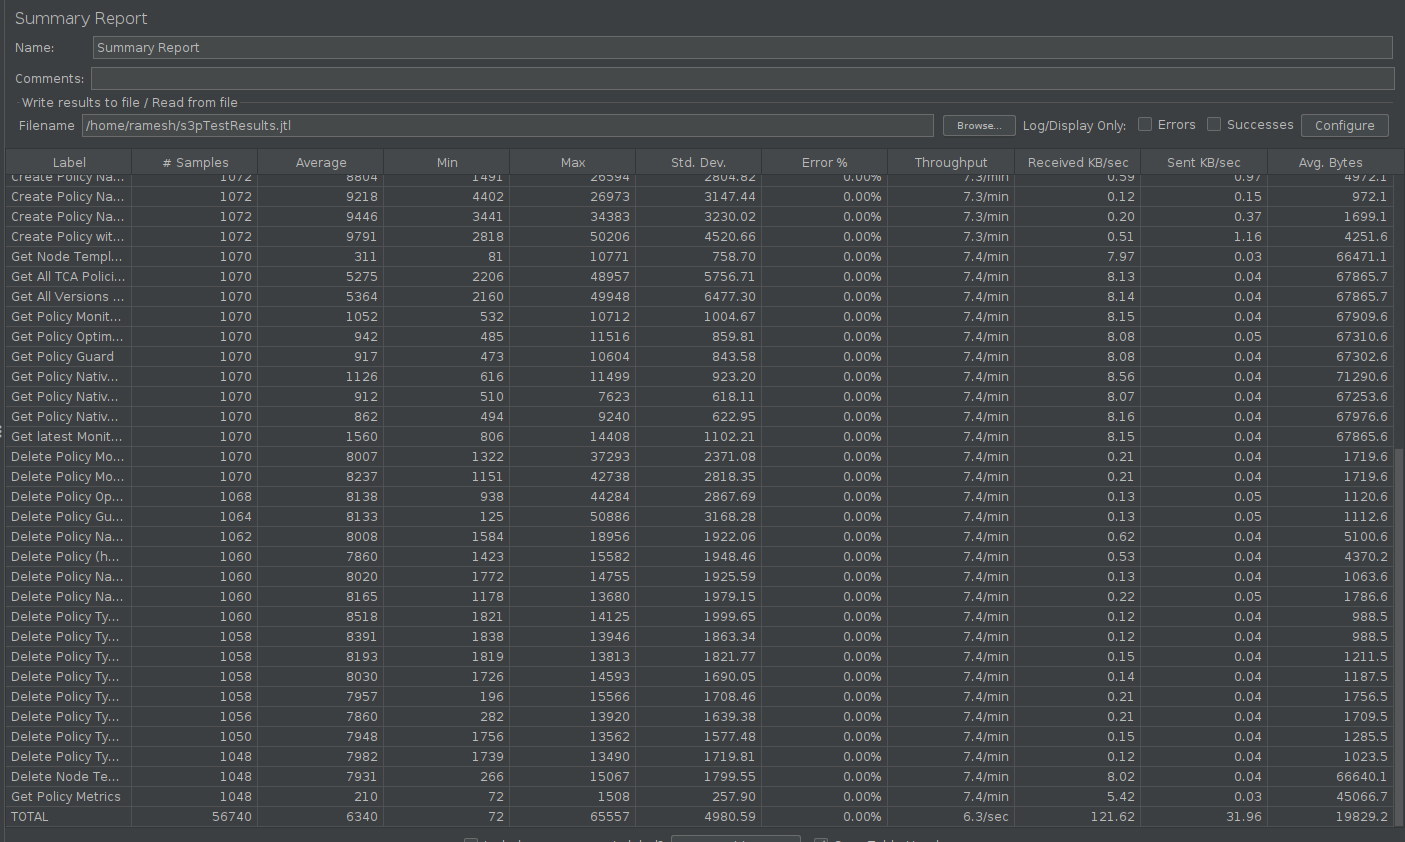
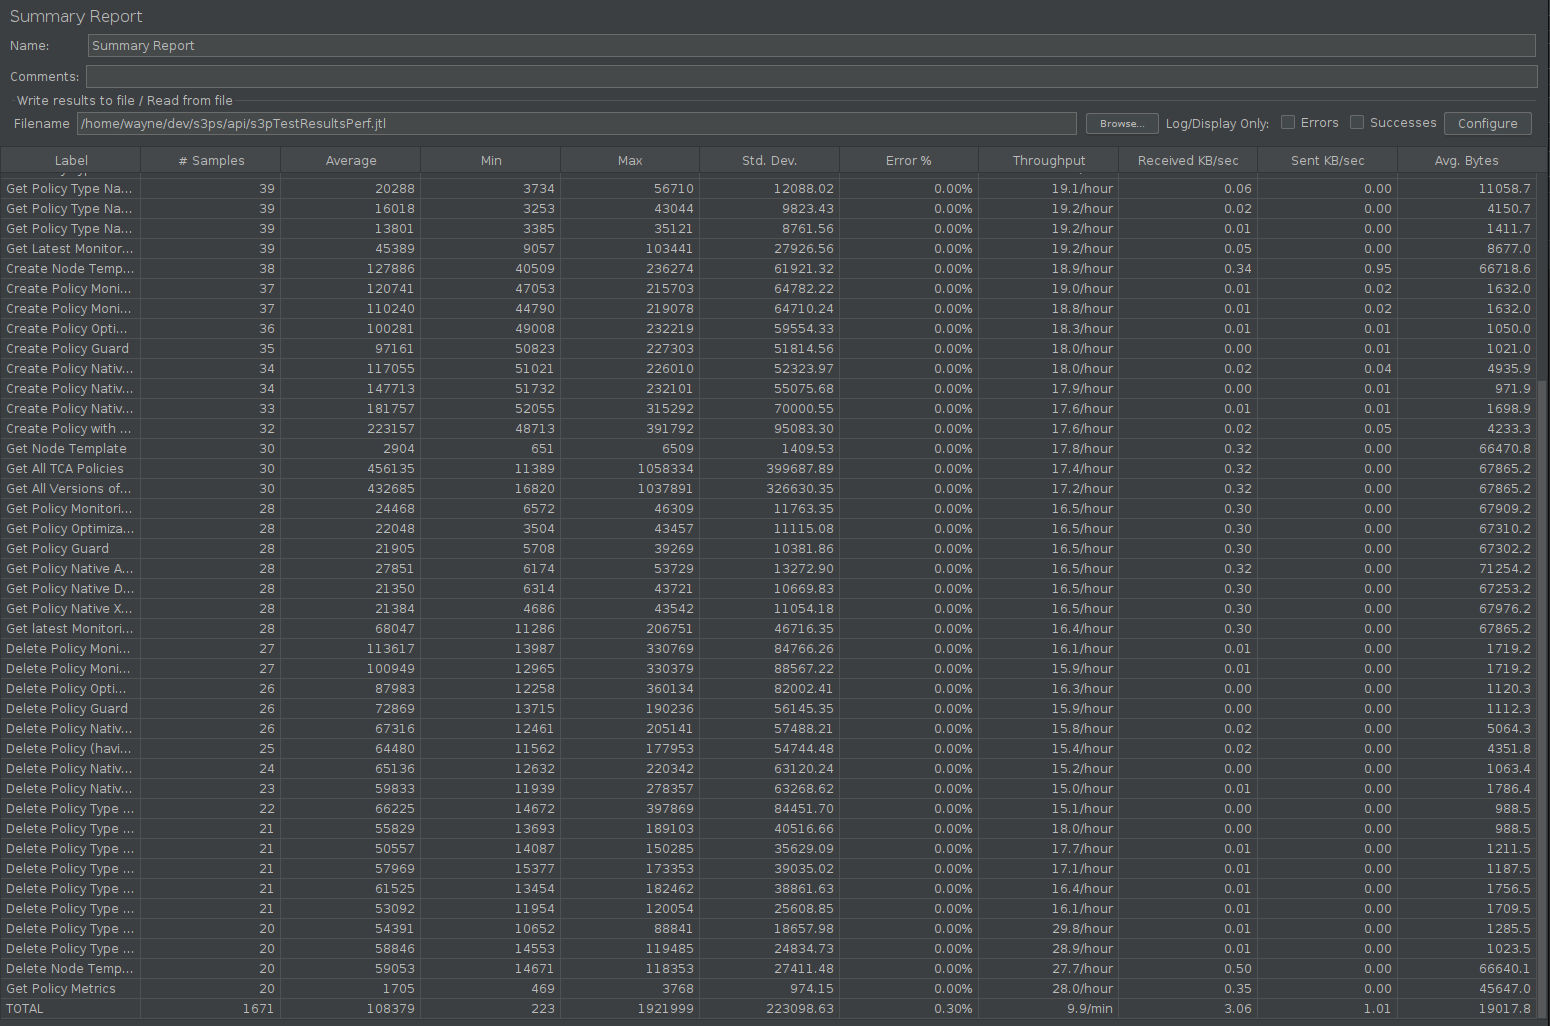
Update S3P test results for policy-api
Issue-ID: POLICY-4978

diff --git a/docs/development/devtools/testing/s3p/api-s3p.rst b/docs/development/devtools/testing/s3p/api-s3p.rst
@@ -126,7 +126,7 @@ The load was performed against a non-tweaked Policy docker deployment.
 =======================  =============  ===========  ===============================  ===============================  ===============================
 **Total # of requests**  **Success %**    **TPS**    **Avg. time taken per request**  **Min. time taken per request**  **Max. time taken per request**
 =======================  =============  ===========  ===============================  ===============================  ===============================
-    730178                    100%         2.8              1766 ms                               127 ms                          107029 ms
+    214617                    100%         2.8              6028 ms                               206 ms                          115153 ms
 =======================  =============  ===========  ===============================  ===============================  ===============================
 
 .. image:: api-s3p-results/api-s3p-jm-1_J.png
@@ -192,7 +192,7 @@ Running/Triggering performance test will be the same as stability test. That is,
 =======================  =============  ===========  ===============================  ===============================  ===============================
 **Total # of requests**  **Success %**    **TPS**    **Avg. time taken per request**  **Min. time taken per request**  **Max. time taken per request**
 =======================  =============  ===========  ===============================  ===============================  ===============================
-    56740                     100%           6.3              6340 ms                              72 ms                          65557 ms
+    1671                     99.7%           6.3              108379 ms                              223 ms                          1921999 ms
 =======================  =============  ===========  ===============================  ===============================  ===============================
 
 .. image:: api-s3p-results/api-s3p-jm-2_J.png
